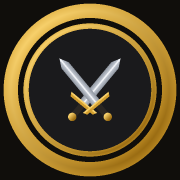
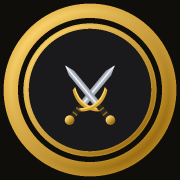
Detect a forced desktop viewport, and sharpen the brand mark
A screenshot from a real phone showed the lobby rendering the DESKTOP layout:
three game cards across, two-column tournaments, the nav back in the header,
the footer inline, everything about a third size. No phone media query was
matching at all, which is a different fault from the layout bugs fixed so far.

The viewport meta is correct and served correctly, exactly one of them, and
nothing in our JS rewrites it. That leaves the browser being told to use a
desktop viewport: Chrome's "Desktop site" setting lays the page out at about
980 CSS pixels and scales the result down to fit. Every query below 760px
stops matching, so the page looks zoomed out and fills a fraction of the
screen. It is a per-site preference and it carries into an installed app.

Nothing in CSS or JS can override that, and it should not: it is the user's
choice and the browser enforces it. So the page notices instead. The tell is a
layout viewport far wider than the physical screen, and the check is gated on
the screen actually being narrow so it cannot fire on a tablet or a small
laptop — verified against six device shapes including an iPad in portrait and
a 900px laptop.

Worth saying plainly: this cost a day of chasing layout bugs that were real
but were not what the reporter was seeing. The screenshot answered it in
seconds. Numbers from an emulated viewport cannot show you a setting on
somebody else's device.

Also redraws the crossed-swords mark closer to the reference: crescent
[…]

Changed region(s): [[0.3333, 0.3056, 0.6667, 0.6944]]

diff --git a/scripts/make-icons.js b/scripts/make-icons.js
@@ -125,41 +125,69 @@ const rot = (x, y, cx, cy, a) => {
   return [cx + dx * co - dy * s, cy + dx * s + dy * co];
 };
 
-/* One sword, drawn pointing up through the centre then rotated. Coordinates are
-   fractions of the canvas so it scales with the icon. */
+/* One sword, drawn pointing up through the centre then rotated. Proportions are
+   matched to the reference: a long blade reaching most of the way to the ring,
+   a crescent crossguard whose ends sweep up towards the tip, a banded grip, and
+   a ball pommel sitting out near the inner ring. */
 function sword(c, cx, cy, R, angle) {
   const P = (x, y) => rot(cx + x * R, cy + y * R, cx, cy, angle);
-  const bladeW = 0.085, tipY = -0.86, baseY = 0.16;
+  const halfW = 0.062, tipY = -0.70, shoulderY = -0.52, guardY = 0.20;
 
-  // Blade: a long tapered quad ending in a point.
-  const blade = [P(-bladeW, baseY), P(-bladeW, tipY + 0.16), P(0, tipY),
-                 P(bladeW, tipY + 0.16), P(bladeW, baseY)];
-  /* Shade across the blade's own width. The axis is rotated with it, so the
-     lit face stays on the same side of the blade whichever way it points. */
+  // Blade: parallel sides, then a long point.
+  const blade = [P(-halfW, guardY), P(-halfW, shoulderY), P(0, tipY),
+                 P(halfW, shoulderY), P(halfW, guardY)];
+  /* Shaded across the blade's own width, with the axis rotated with it, so the
+     lit face and the central fuller stay put whichever way the sword points. */
   const ux = Math.cos(angle), uy = Math.sin(angle);
   fillPoly(c, blade, (x, y) => {
-    const t = ((x - cx) * ux + (y - cy) * uy) / (bladeW * R) * 0.5 + 0.5;
-    const k = Math.max(0, Math.min(1, t));
-    return k < 0.42 ? mix(STEEL_D, STEEL_M, k / 0.42)
-         : k < 0.58 ? STEEL_L                       // the fuller catching light
-         : mix(STEEL_M, STEEL_D, (k - 0.58) / 0.42);
+    const k = Math.max(0, Math.min(1,
+      ((x - cx) * ux + (y - cy) * uy) / (halfW * R) * 0.5 + 0.5));
+    return k < 0.38 ? mix(STEEL_D, STEEL_M, k / 0.38)
+         : k < 0.56 ? STEEL_L                       // the fuller catching light
+         : mix(STEEL_M, STEEL_D, (k - 0.56) / 0.44);
   });
 
-  // Crossguard: a wide gold bar.
-  const gw = 0.30, gy = 0.16, gh = 0.075;
-  fillPoly(c, [P(-gw, gy), P(-gw * 0.86, gy + gh), P(gw * 0.86, gy + gh), P(gw, gy)],
-    () => GOLD_M);
-  fillPoly(c, [P(-gw, gy), P(gw, gy), P(gw * 0.93, gy + gh * 0.4), P(-gw * 0.93, gy + gh * 0.4)],
-    () => GOLD_L);
-
-  // Grip and pommel.
-  fillPoly(c, [P(-0.055, gy + gh), P(-0.055, 0.44), P(0.055, 0.44), P(0.055, gy + gh)],
-    () => GRIP);
-  const pom = P(0, 0.50);
-  for (let y = 0; y < c.n; y++) for (let x = 0; x < c.n; x++) {
-    const dx = x + 0.5 - pom[0], dy = y + 0.5 - pom[1], d = Math.hypot(dx, dy);
-    if (d <= 0.075 * R) put(c, x, y, mix(GOLD_L, GOLD_D, Math.max(0, Math.min(1, (dx + dy) / (0.15 * R) + 0.5))));
+  /* Crescent crossguard: the ends rise towards the tip, which is the detail
+     that makes it read as a sword hilt rather than a plus sign. Built by
+     sampling the curve rather than as a straight bar. */
+  const gw = 0.30, gh = 0.075, bow = 0.11, N = 14;
+  const top = [], bottom = [];
+  for (let i = 0; i <= N; i++) {
+    const t = -1 + (2 * i) / N;
+    const yc = guardY - bow * t * t;
+    top.push(P(t * gw, yc - gh / 2));
+    bottom.push(P(t * gw, yc + gh / 2));
   }
+  fillPoly(c, top.concat(bottom.reverse()), () => GOLD_M);
+  // A lit sliver along the guard's upper edge.
+  const lip = [];
+  for (let i = 0; i <= N; i++) {
+    const t = -1 + (2 * i) / N;
+    lip.push(P(t * gw, guardY - bow * t * t - gh / 2));
+  }
+  for (let i = N; i >= 0; i--) {
+    const t = -1 + (2 * i) / N;
+    lip.push(P(t * gw, guardY - bow * t * t - gh / 2 + gh * 0.42));
+  }
+  fillPoly(c, lip, () => GOLD_L);
+
+  // Grip, with two gold bands like the reference.
+  fillPoly(c, [P(-0.050, guardY + gh / 2), P(-0.050, 0.50),
+               P(0.050, 0.50), P(0.050, guardY + gh / 2)], () => GRIP);
+  for (const by of [0.31, 0.41]) {
+    fillPoly(c, [P(-0.052, by), P(-0.052, by + 0.026),
+                 P(0.052, by + 0.026), P(0.052, by)], () => GOLD_D);
+  }
+
+  // Ball pommel, lit from the same direction as the ring.
+  const pom = P(0, 0.575), pr = 0.085 * R;
+  for (let y = Math.max(0, Math.floor(pom[1] - pr)); y <= Math.min(c.n - 1, Math.ceil(pom[1] + pr)); y++)
+    for (let x = Math.max(0, Math.floor(pom[0] - pr)); x <= Math.min(c.n - 1, Math.ceil(pom[0] + pr)); x++) {
+      const dx = x + 0.5 - pom[0], dy = y + 0.5 - pom[1];
+      if (dx * dx + dy * dy > pr * pr) continue;
+      put(c, x, y, mix(GOLD_L, GOLD_D,
+        Math.max(0, Math.min(1, (dx + dy) / (2 * pr) + 0.5))));
+    }
 }
 
 function draw(size, { bleed = true } = {}) {

diff --git a/public/js/v2/mobile.js b/public/js/v2/mobile.js
@@ -60,6 +60,40 @@
     document.body.appendChild(bar);
   }
 
+  /* ── "Desktop site" detection ──────────────────────────────────────────
+     With Chrome's Desktop site setting on, the browser ignores
+     width=device-width and lays the page out at about 980 CSS pixels, then
+     scales the whole thing down to fit. Every media query below 760px stops
+     matching, so a phone gets the desktop layout at about a third size: the
+     page looks "zoomed out" and fills a fraction of the screen.
+
+     Nothing in CSS or JS can override that — it is the user's decision and the
+     browser enforces it. What we can do is notice, because the symptom looks
+     exactly like a broken responsive layout and is impossible to guess at.
+     The tell is a layout viewport far wider than the physical screen. */
+  function desktopSiteForced() {
+    if (!screen || !screen.width) return false;
+    const layout = window.innerWidth;
+    const physical = Math.min(screen.width, screen.height);
+    // A real tablet is wide AND has a wide screen; this is wide on a narrow one.
+    return physical <= 500 && layout > physical * 1.6 && layout >= 700;
+  }
+  function warnDesktopSite() {
+    if (!desktopSiteForced()) return;
+    try { if (sessionStorage.getItem('duelseries_dsite') === 'seen') return; } catch (_) {}
+    const bar = document.createElement('div');
+    bar.className = 'a2hs';
+    bar.innerHTML =
+      '<span>This is showing the desktop layout. Turn off <b>Desktop site</b> ' +
+      'in your browser menu for the phone version.</span>' +
+      '<button aria-label="Dismiss">Got it</button>';
+    bar.querySelector('button').addEventListener('click', () => {
+      bar.remove();
+      try { sessionStorage.setItem('duelseries_dsite', 'seen'); } catch (_) {}
+    });
+    document.body.appendChild(bar);
+  }
+
   /* Mobile browsers report 100vh as the height WITHOUT the collapsing address
      bar, so a full-height element is taller than the screen and the page
      rocks as the bar hides. --vh is the real height, updated as it changes. */
@@ -78,7 +112,7 @@
     });
   }
 
-  document.addEventListener('DOMContentLoaded', maybeOfferInstall);
+  document.addEventListener('DOMContentLoaded', () => { warnDesktopSite(); maybeOfferInstall(); });
 
-  window.V2Mobile = { standalone, isPhone, tryFullscreen };
+  window.V2Mobile = { standalone, isPhone, tryFullscreen, desktopSiteForced };
 })();

diff --git a/test/v2route.test.js b/test/v2route.test.js
@@ -388,3 +388,14 @@ test('the brand mark is wired everywhere a browser asks for one', () => {
                    'icon-192.png', 'icon-512.png'])
     assert.ok(fs.existsSync(path.join(ROOT, 'public/img', f)), `${f} exists`);
 });
+
+test('a forced desktop viewport is detected and explained', () => {
+  // Chrome's "Desktop site" lays the page out at ~980px and scales it down, so
+  // every phone media query stops matching and the symptom looks exactly like
+  // a broken responsive layout. Nothing can override it, so it is named.
+  const src = fs.readFileSync(path.join(ROOT, 'public/js/v2/mobile.js'), 'utf8');
+  assert.ok(/desktopSiteForced/.test(src), 'the case is detected');
+  assert.ok(/Desktop site/.test(src), 'and the fix is named in the message');
+  // Must not fire on a real tablet or a small laptop.
+  assert.ok(/physical <= 500/.test(src), 'gated on a physically narrow screen');
+});
